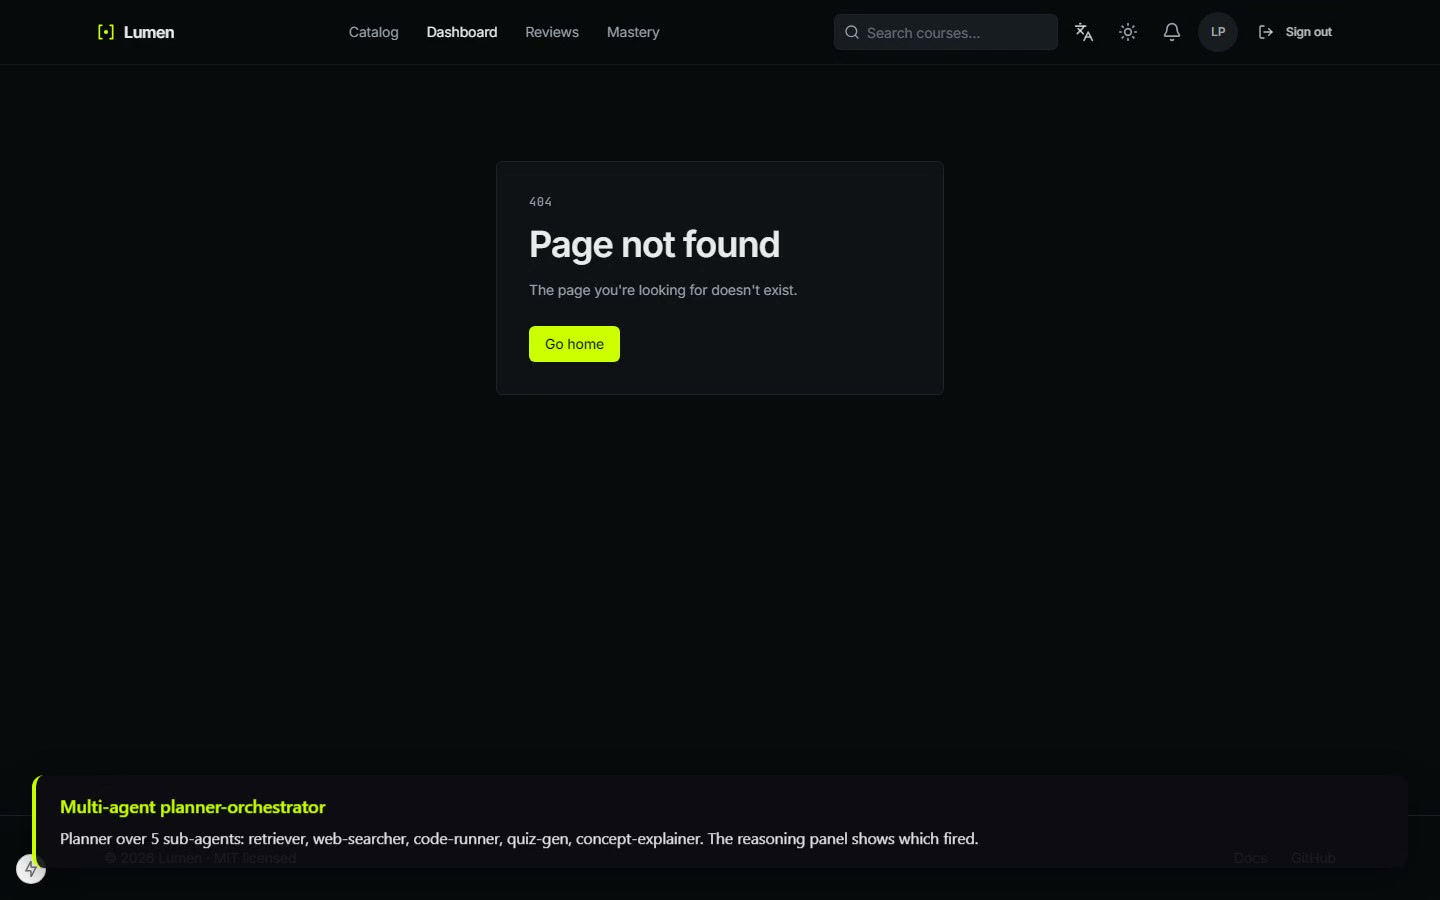
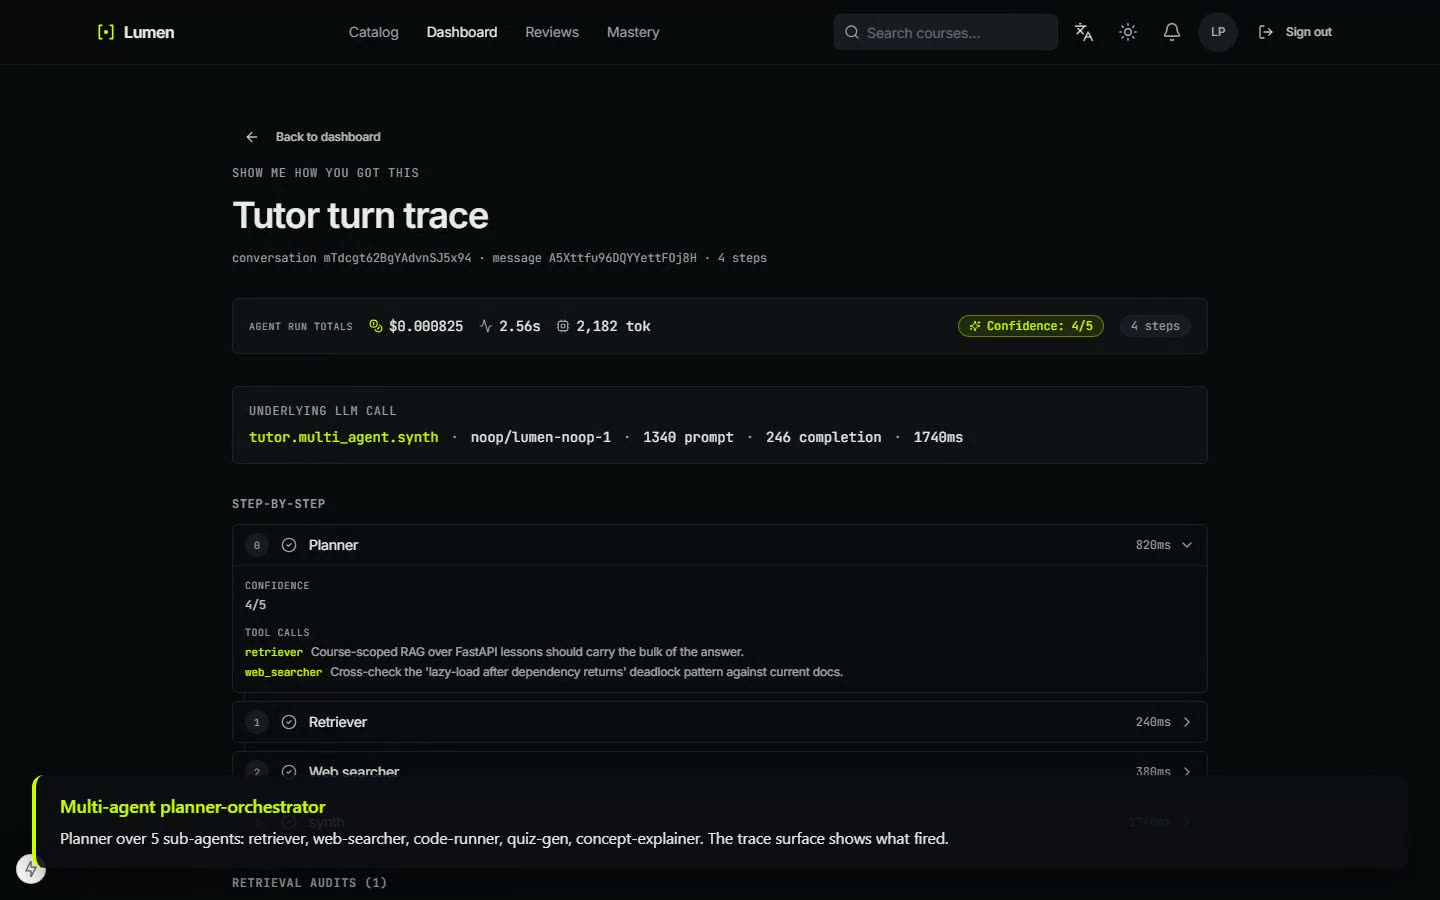
fix(screencast): route beats 2-4 to real pages with content
Frame-by-frame verification of the previous take revealed beats 2 and 3
were navigating to /dashboard/tutor/{cid} — a route that doesn't exist
(only /dashboard/tutor/{cid}/turn/{mid} is mounted), so the recorder
captured a Next.js 404 for ~30 seconds of the demo.

Fixes:
- Beat 2 (Course-scoped RAG tutor): now navigates to /learn/{slug} for
  the seeded FastAPI course and clicks "Ask the tutor" to open the
  TutorPanel sidebar. Frame shows lesson + tutor in one shot.
- Beat 3 (Multi-agent planner-orchestrator): now lands on the trace
  surface (/dashboard/tutor/.../turn/...) scrolled to top so the
  planner's tool-calls (retriever + web_searcher) are visible directly
  under the agent-run-totals header.
- Beat 4 (Observable agent traces): same trace page, but scrolls to the
  Retrieval Audits landmark — visually distinct from beat 3's top-of-
  page framing, even though it's the same route.

The reasoning panel inside TutorPanel only renders on a fresh POST
response (the trace isn't persisted in tutor_messages), so the trace
surface is the only place a recorded session can actually show the
planner-orchestrator output.

Regenerated walkthrough.mp4 (1.78 MB, 1m51s, h264) + poster from t=42s
showing the planner section.

diff --git a/apps/frontend/tests/e2e/record-walkthrough.ts b/apps/frontend/tests/e2e/record-walkthrough.ts
@@ -64,31 +64,31 @@ const BEATS: Beat[] = [
       await page.click('button[type="submit"]');
       await page.waitForURL(/dashboard|\/$/, { timeout: 15000 }).catch(() => {});
       await page.waitForTimeout(800);
-      await page.goto(`${BASE}/dashboard/tutor/${CONVERSATION_ID}`);
+      // Open the learn surface for the seeded FastAPI course
+      await page.goto(`${BASE}/learn/${FASTAPI_COURSE_SLUG}`);
       await page.waitForLoadState("domcontentloaded");
+      await page.waitForTimeout(1200);
+      // Toggle the tutor sidebar open so the camera sees lesson + tutor together
+      const askBtn = page.getByRole("button", { name: /ask the tutor/i }).first();
+      if (await askBtn.count()) {
+        await askBtn.click().catch(() => {});
+        await page.waitForTimeout(800);
+      }
     },
   },
   {
     title: "Multi-agent planner-orchestrator",
     caption:
-      "Planner over 5 sub-agents: retriever, web-searcher, code-runner, quiz-gen, concept-explainer. The reasoning panel shows which fired.",
+      "Planner over 5 sub-agents: retriever, web-searcher, code-runner, quiz-gen, concept-explainer. The trace surface shows what fired.",
     duration: 15000,
     go: async (page) => {
-      // Try to expand AgentReasoningPanel — multiple possible selectors
-      const expanders = [
-        'button:has-text("Show reasoning")',
-        'button:has-text("Agent reasoning")',
-        '[data-testid="agent-reasoning-panel-toggle"]',
-        'button[aria-controls*="reasoning"]',
-      ];
-      for (const sel of expanders) {
-        const el = page.locator(sel).first();
-        if (await el.count()) {
-          await el.click().catch(() => {});
-          break;
-        }
-      }
-      await page.waitForTimeout(800);
+      // Trace surface — top of the page shows the planner + tool calls (which
+      // is exactly what this caption describes). Beat 4 scrolls down to the
+      // retrieval audit so the visual changes even though it's the same page.
+      await page.goto(`${BASE}/dashboard/tutor/${CONVERSATION_ID}/turn/${MESSAGE_ID}`);
+      await page.waitForLoadState("domcontentloaded");
+      await page.waitForTimeout(500);
+      await page.evaluate(() => window.scrollTo({ top: 0, behavior: "instant" as ScrollBehavior }));
     },
   },
   {
@@ -97,9 +97,22 @@ const BEATS: Beat[] = [
       "Every turn writes a first-class trace — tokens, USD cost, latency, planner tool-calls, retrieval audit. Built in, not bolted on.",
     duration: 15000,
     go: async (page) => {
-      await page.goto(`${BASE}/dashboard/tutor/${CONVERSATION_ID}/turn/${MESSAGE_ID}`);
-      await page.waitForLoadState("domcontentloaded");
-      await page.waitForTimeout(500);
+      // Scroll down to the retrieval-audit / step breakdown so beat 4 reads
+      // visually different from beat 3's framing of the same trace page.
+      await page.evaluate(() => {
+        // Try to scroll to a retrieval-audit landmark; fall back to a fixed offset.
+        const target =
+          document.querySelector('[data-testid="retrieval-audit"]') ||
+          Array.from(document.querySelectorAll("h2,h3"))
+            .find((el) => /retrieval|audit/i.test(el.textContent || "")) ||
+          null;
+        if (target) {
+          (target as HTMLElement).scrollIntoView({ behavior: "instant" as ScrollBehavior, block: "start" });
+        } else {
+          window.scrollTo({ top: 600, behavior: "instant" as ScrollBehavior });
+        }
+      });
+      await page.waitForTimeout(400);
     },
   },
   {

diff --git a/tools/recording/record-walkthrough.ts b/tools/recording/record-walkthrough.ts
@@ -64,31 +64,31 @@ const BEATS: Beat[] = [
       await page.click('button[type="submit"]');
       await page.waitForURL(/dashboard|\/$/, { timeout: 15000 }).catch(() => {});
       await page.waitForTimeout(800);
-      await page.goto(`${BASE}/dashboard/tutor/${CONVERSATION_ID}`);
+      // Open the learn surface for the seeded FastAPI course
+      await page.goto(`${BASE}/learn/${FASTAPI_COURSE_SLUG}`);
       await page.waitForLoadState("domcontentloaded");
+      await page.waitForTimeout(1200);
+      // Toggle the tutor sidebar open so the camera sees lesson + tutor together
+      const askBtn = page.getByRole("button", { name: /ask the tutor/i }).first();
+      if (await askBtn.count()) {
+        await askBtn.click().catch(() => {});
+        await page.waitForTimeout(800);
+      }
     },
   },
   {
     title: "Multi-agent planner-orchestrator",
     caption:
-      "Planner over 5 sub-agents: retriever, web-searcher, code-runner, quiz-gen, concept-explainer. The reasoning panel shows which fired.",
+      "Planner over 5 sub-agents: retriever, web-searcher, code-runner, quiz-gen, concept-explainer. The trace surface shows what fired.",
     duration: 15000,
     go: async (page) => {
-      // Try to expand AgentReasoningPanel — multiple possible selectors
-      const expanders = [
-        'button:has-text("Show reasoning")',
-        'button:has-text("Agent reasoning")',
-        '[data-testid="agent-reasoning-panel-toggle"]',
-        'button[aria-controls*="reasoning"]',
-      ];
-      for (const sel of expanders) {
-        const el = page.locator(sel).first();
-        if (await el.count()) {
-          await el.click().catch(() => {});
-          break;
-        }
-      }
-      await page.waitForTimeout(800);
+      // Trace surface — top of the page shows the planner + tool calls (which
+      // is exactly what this caption describes). Beat 4 scrolls down to the
+      // retrieval audit so the visual changes even though it's the same page.
+      await page.goto(`${BASE}/dashboard/tutor/${CONVERSATION_ID}/turn/${MESSAGE_ID}`);
+      await page.waitForLoadState("domcontentloaded");
+      await page.waitForTimeout(500);
+      await page.evaluate(() => window.scrollTo({ top: 0, behavior: "instant" as ScrollBehavior }));
     },
   },
   {
@@ -97,9 +97,22 @@ const BEATS: Beat[] = [
       "Every turn writes a first-class trace — tokens, USD cost, latency, planner tool-calls, retrieval audit. Built in, not bolted on.",
     duration: 15000,
     go: async (page) => {
-      await page.goto(`${BASE}/dashboard/tutor/${CONVERSATION_ID}/turn/${MESSAGE_ID}`);
-      await page.waitForLoadState("domcontentloaded");
-      await page.waitForTimeout(500);
+      // Scroll down to the retrieval-audit / step breakdown so beat 4 reads
+      // visually different from beat 3's framing of the same trace page.
+      await page.evaluate(() => {
+        // Try to scroll to a retrieval-audit landmark; fall back to a fixed offset.
+        const target =
+          document.querySelector('[data-testid="retrieval-audit"]') ||
+          Array.from(document.querySelectorAll("h2,h3"))
+            .find((el) => /retrieval|audit/i.test(el.textContent || "")) ||
+          null;
+        if (target) {
+          (target as HTMLElement).scrollIntoView({ behavior: "instant" as ScrollBehavior, block: "start" });
+        } else {
+          window.scrollTo({ top: 600, behavior: "instant" as ScrollBehavior });
+        }
+      });
+      await page.waitForTimeout(400);
     },
   },
   {